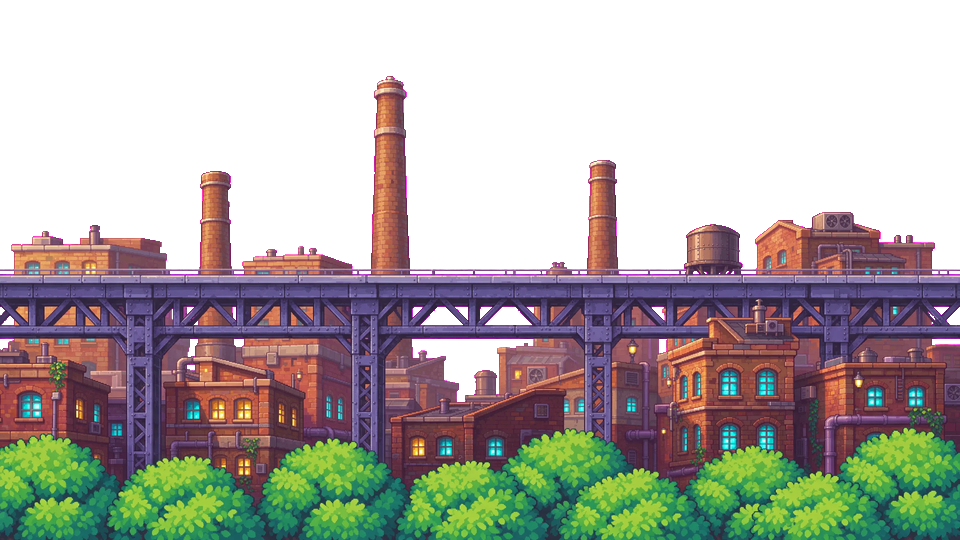
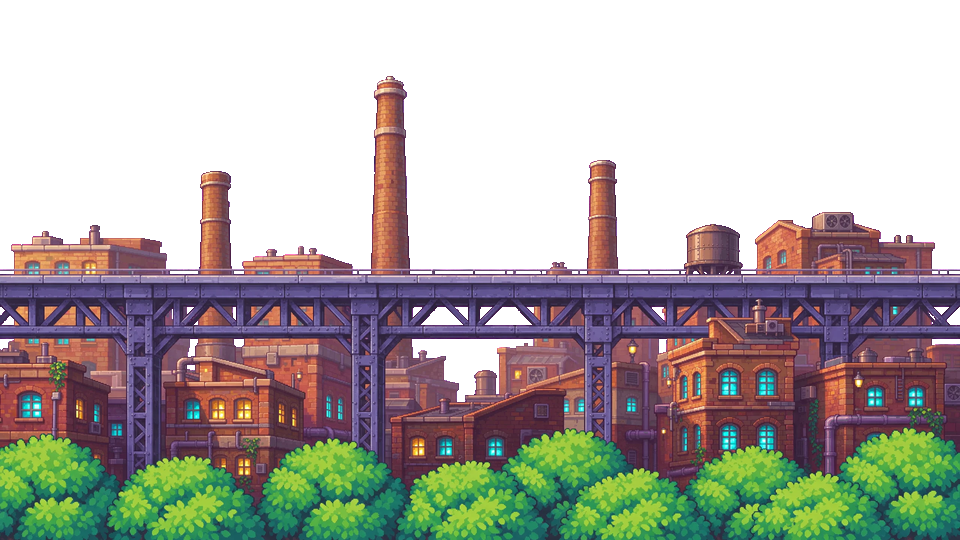
Run trains forwards now and then, sharpen them, and clean the city bridge
The train used to run to the edge of the view and come back reversed. It now
crosses left to right on top of its bridge, the first a few seconds into the
level and the next 22 seconds after the last has gone. The freight train rides
in front of Ship It City's warehouses instead of vanishing behind them.

Train sprites are averaged down, sharpened, held to a small palette and given
a dark violet outline. Application Alley no longer has a train. The magenta
cast is taken out of Ship It City's bridge layer.

Claude-Session: https://claude.ai/code/session_01TySN1cNevy2HFj41ARkqbS

diff --git a/src/assets.js b/src/assets.js
@@ -1,1 +1,1 @@
[2 lines of base64/hex data omitted]

diff --git a/src/renderer.js b/src/renderer.js
@@ -19,7 +19,9 @@
   // Things that cross the sky behind the level. Speeds are pixels a second; `far` is how much of the
   // camera's travel they share, so distant things slide past more slowly than near ones.
   const PLANE = { speed: 46, far: .06, wait: 4, rest: 620, y: 58, rope: 18, font: 'bold 13px monospace', ink: '#3b2148', hem: '#d6453d', cord: '#7a4a2a' };
-  const TRAIN = { speed: 120, rest: 1500 };
+  // A train crosses the view left to right every so often: the first a few seconds into the
+  // level, each later one a while after the last has gone.
+  const TRAIN = { speed: 115, first: 4, every: 22 };
 
   class Renderer {
     constructor(canvas) {
@@ -158,6 +160,7 @@
           if (i === scene.rocket?.behind) this.rocket(scene.rocket, (this.camera - start) * layer.speed);
           if (i === scene.behind) this.traffic(scene);
           this.strip(layers[i], offset, layers[i].width, HGT);
+          if (i === scene.behind && scene.train) this.train(scene);
           if (i === scene.smoke?.layer) this.smoke(scene.smoke, offset, layers[i].width);
           if (layer.haze) { ctx.fillStyle = layer.haze; ctx.fillRect(0, 0, W, HGT); }
         });
@@ -192,7 +195,7 @@
     lap(value, lap) { return ((value % lap) + lap) % lap; }
 
     // What moves behind the level: something that floats (a balloon, an airship), a small flock
-    // (gulls, delivery drones), a train along the world's bridge, and the plane with its banner.
+    // (gulls, delivery drones) and the plane with its banner. The train is drawn with its bridge.
     // A world still on a single plate gets the plane alone.
     traffic(scene) {
       const t = this.levelTime, cam = this.camera;
@@ -209,16 +212,24 @@
         }
       }
       this.plane(root.HIRED_EDITION?.banners?.[this.levelIndex] || 'HIRE ' + String(root.HIRED_EDITION?.applicant || 'ME').split(' ')[0].toUpperCase() + '.');
-      if (scene?.rail) {
-        // The train runs one way, rests out of sight, then comes back the other way.
-        const f = this.frame('kit', scene.train || 'train');
-        if (f) {
-          const lap = W + f.w + TRAIN.rest, run = t * TRAIN.speed, back = Math.floor(run / lap) & 1;
-          const along = this.lap(run, lap) - f.w, slide = this.lap(cam * scene.layers[scene.behind].speed, W + f.w);
-          const x = back ? W - f.w - along : along;
-          draw(scene.train || 'train', this.lap(x - slide + f.w, W + f.w) - f.w, scene.rail - f.h, back);
-        }
-      }
+    }
+
+    // The train runs on top of the world's bridge, in front of what stands on it, so it slides with
+    // that layer as the camera moves and travels at its own speed on top. It always runs the way
+    // its engine faces.
+    train(scene) {
+      const f = this.frame('kit', scene.train), t = this.levelTime;
+      if (!f) return;
+      const slide = this.camera * scene.layers[scene.behind].speed;
+      let run = this.trainRun;
+      if (!run || run.level !== this.levelIndex || t < run.seen) run = this.trainRun = { level: this.levelIndex, start: t + TRAIN.first };
+      run.seen = t;
+      if (t < run.start) return;
+      if (run.from === undefined) run.from = slide - f.w;
+      const x = run.from + (t - run.start) * TRAIN.speed - slide;
+      // Once it is off the far side (or the player has long outrun it), the next one is due.
+      if (x > W || t - run.start > 60) { run.start = t + TRAIN.every; run.from = undefined; return; }
+      if (x + f.w >= 0) this.kit(scene.train, x, scene.rail - f.h);
     }
 
     // Now and then a rocket climbs out from behind the skyline and leaves by the top of the screen.

diff --git a/tools/build-art-kit.py b/tools/build-art-kit.py
@@ -18,7 +18,7 @@ Requires Pillow and NumPy, used for build tooling only.
 from pathlib import Path
 import json
 import numpy as np
-from PIL import Image, ImageDraw
+from PIL import Image, ImageDraw, ImageFilter
 
 ROOT = Path(__file__).resolve().parents[1]
 SRC = ROOT / 'assets/source/kit'
@@ -115,6 +115,29 @@ def sized(im, width=None, height=None):
 def cut(sheet, box, **size):
     """One sprite from a matted sheet: a box in the sheet's pixels, trimmed and scaled."""
     return sized(trim(sheet.crop(box))[0], **size)
+
+
+def crisp(im, height, colours=28, outline=(46, 30, 78)):
+    """A large sprite brought down to game pixels so it stays sharp: averaged rather than
+    resampled, sharpened, held to a small palette and ringed with a dark violet outline, which also
+    hides any trace of the key colour round its edge. It comes out two pixels taller than asked."""
+    im = trim(im)[0]
+    width = max(1, round(im.width * height / im.height))
+    data = np.asarray(im.convert('RGBA')).astype(np.float32)
+    data[..., :3] *= data[..., 3:] / 255
+    small = np.asarray(Image.fromarray(data.clip(0, 255).astype(np.uint8), 'RGBA').resize((width, height), Image.BOX)).astype(np.float32)
+    alpha = small[..., 3:]
+    small[..., :3] = np.where(alpha > 0, small[..., :3] * 255 / np.maximum(alpha, 1), 0)
+    rgb = Image.fromarray(small[..., :3].clip(0, 255).astype(np.uint8), 'RGB')
+    rgb = rgb.filter(ImageFilter.UnsharpMask(radius=1.2, percent=90, threshold=2))
+    rgb = np.asarray(rgb.quantize(colors=colours, method=Image.MEDIANCUT, dither=Image.NONE).convert('RGB'))
+    out = np.zeros((height + 2, width + 2, 4), np.uint8)
+    out[1:-1, 1:-1, :3] = rgb
+    out[1:-1, 1:-1, 3] = (small[..., 3] > 128) * 255
+    solid = out[..., 3] > 0
+    ring = ~solid & (np.roll(solid, 1, 0) | np.roll(solid, -1, 0) | np.roll(solid, 1, 1) | np.roll(solid, -1, 1))
+    out[ring] = (*outline, 255)
+    return Image.fromarray(out, 'RGBA')
 
 
 def banded(im, cuts, heights, width):
@@ -378,7 +401,6 @@ def alley_traffic():
     frames = {
         'plane': plane,
         'banner': banner,
-        'train': cut(sheet, (300, 600, 2310, 846), height=36),
         'gull_0': gull,
         'gull_1': glide,
         'balloon': sized(trim(basket)[0], width=40),
@@ -530,7 +552,7 @@ def alley_layers():
         'far': (layer(far, 0.375, -125, haze=(176, 196, 240), haze_from=(255, 345)), {'speed': 0.07}),
         'near': (layer(near, 0.3, 134), {'speed': 0.18}),
         'trees': (layer(trees, 0.36, 367), {'speed': 0.3}),
-    }, {'behind': 2, 'rail': 308, 'float': {'sprite': 'balloon', 'at': [260, 104]},
+    }, {'behind': 2, 'float': {'sprite': 'balloon', 'at': [260, 104]},
         'flock': {'sprite': 'gull', 'count': 3, 'y': 150, 'beat': 4}})
 
 
@@ -553,6 +575,18 @@ def shaved(im, tinted, depth=8):
     return Image.fromarray(data, 'RGBA')
 
 
+def unpinked(im, lead=45):
+    """The magenta ground's cast taken out of a cut-out: wherever red and blue both stand well clear
+    of green (nothing painted in Ship It City is that colour), they are brought down to it."""
+    data = np.asarray(im).astype(np.int32)
+    r, g, b = data[..., 0], data[..., 1], data[..., 2]
+    pink = (data[..., 3] > 0) & (r > g + lead) & (b > g + lead)
+    level = g + lead // 2
+    data[..., 0] = np.where(pink, np.minimum(r, level), r)
+    data[..., 2] = np.where(pink, np.minimum(b, level + 10), b)
+    return Image.fromarray(data.astype(np.uint8), 'RGBA')
+
+
 def city_layers():
     """Ship It City's skyline, and its bridge, factories and trees, are each one painted picture
     on a flat ground. The front bank of trees is lifted out of the second to slide by itself."""
@@ -560,7 +594,7 @@ def city_layers():
     sky = unmarked(Image.open(SRC / 'city-sky.png'), also=[(2290, 270, 2560, 470)]).convert('RGB').resize(SCREEN, Image.LANCZOS)
     far = matte(Image.open(SRC / 'city-far-2.png'), keep_marks=True)
     whole = Image.open(SRC / 'city-near-2.png')
-    near = matte(whole, keep_marks=True)
+    near = unpinked(matte(whole, keep_marks=True))
     # Leaves are greener than they are red and blue, or dark and teal in their shade; the lit
     # windows behind them are bright and as blue as they are green.
     trees = front_bank(whole, CITY_ART['trees'], lambda r, g, b: (g > r + 20) & ((g > b + 15) | ((g < 130) & (g > b - 12))), rim=36)
@@ -589,7 +623,7 @@ def city_traffic():
         'drone_0': cut(sheet, (1256, 208, 1724, 584), width=30),
         'drone_1': cut(sheet, (1868, 192, 2272, 568), width=30),
         # A faint line is drawn under the wheels: the train stops just above it.
-        'freight': cut(sheet, (284, 744, 2284, 1040), height=34),
+        'freight': crisp(sheet.crop((284, 744, 2284, 1040)), 40),
         'puff_0': cut(sheet, (308, 1204, 472, 1340), width=11),
         'puff_1': cut(sheet, (500, 1164, 704, 1340), width=15),
         'puff_2': cut(sheet, (732, 1104, 1004, 1336), width=20),
@@ -646,7 +680,7 @@ def growth_traffic():
         'courier_0': cut(sheet, (1128, 200, 1764, 504), width=32),
         'courier_1': cut(sheet, (1848, 204, 2456, 504), width=32),
         'rocket': cut(sheet, (84, 668, 456, 1380), width=20),
-        'maglev': sized(long, height=40),
+        'maglev': crisp(long, 42),
     }
     return frames, {}
 

diff --git a/docs/ART-BIBLE.md b/docs/ART-BIBLE.md
@@ -74,7 +74,7 @@ The delivered environment kit uses 96 × 96 terrain textures and 192 × 192 prop
 | Growth Run | Fast, open, connected city | Violet and magenta twilight | Lit platforms and speed lanes | Rail lines, layered towers and cyan/violet signals |
 | Final Interview HQ | Clearer, calmer destination | Calm sunrise | Polished stone, glass and gold trim | HQ silhouette, glass, elevated gardens and spacious sky |
 
-Each world suggests distant atmosphere, a middle city and local decoration. Application Alley, Ship It City and Growth Run are each painted in four layers that slide at their own speeds: sky (0.02 of camera speed, with clouds that drift by themselves), far skyline (0.07), a bridge with what stands under it (0.18) and a nearer bank of treetops (0.3). Behind the bridge a train runs along its deck, something floats across the sky with a small flock beside it, and a plane tows a cloth banner whose line comes from `banners` in `src/edition.js`. Application Alley has a viaduct, a commuter train, a balloon and gulls. Ship It City has a steel girder bridge, a freight train, an airship, two delivery drones and chimneys that smoke. Growth Run has a monorail track, a bullet train, an airship carrying a chart, two couriers and a rocket that climbs out of the skyline now and then. Final Interview HQ is still one painted plate, drifting at 0.12 of camera speed, and gets the plane alone. Foreground props, platforms, actors and ambient particles are separate. Keep playable surfaces in the clearest foreground plane; painted architecture does not define collision geometry.
+Each world suggests distant atmosphere, a middle city and local decoration. Application Alley, Ship It City and Growth Run are each painted in four layers that slide at their own speeds: sky (0.02 of camera speed, with clouds that drift by themselves), far skyline (0.07), a bridge with what stands under it (0.18) and a nearer bank of treetops (0.3). Something floats across the sky with a small flock beside it, and a plane tows a cloth banner whose line comes from `banners` in `src/edition.js`. In Ship It City and Growth Run a train runs along the top of the bridge, in front of what stands on it: always forwards, left to right, the first a few seconds into the level and the next 22 seconds after the last has gone. Train sprites are averaged down, sharpened, held to a small palette and outlined in dark violet so they stay crisp at game size. Application Alley has a viaduct, a balloon and gulls, and no train. Ship It City has a steel girder bridge, a freight train, an airship, two delivery drones and chimneys that smoke. Growth Run has a monorail track, a bullet train, an airship carrying a chart, two couriers and a rocket that climbs out of the skyline now and then. Final Interview HQ is still one painted plate, drifting at 0.12 of camera speed, and gets the plane alone. Foreground props, platforms, actors and ambient particles are separate. Keep playable surfaces in the clearest foreground plane; painted architecture does not define collision geometry.
 
 The three upper floors of Final Interview HQ are rooms, and a room's backdrop is its back wall only: a flat elevation with windows, lamps and panelling, fixed to the floor. Furniture is never painted into a wall. It is cut from separate sheets into the furniture atlas and placed in the level, so anything that looks like a desk is a desk the hero can reach.
 

diff --git a/assets/source/kit/README.md b/assets/source/kit/README.md
@@ -11,7 +11,7 @@ cuts away or paints out. The three from CapCut, whose names end in `-2`, have no
 | `alley-sky.png` | Application Alley's sky | none: a full picture |
 | `alley-far.png` | Its far skyline | green |
 | `alley-near.png` | Its viaduct and treetops | red, since the trees are green and pink |
-| `alley-movers.png` | Plane, blank banner, train, two gulls, balloon | green |
+| `alley-movers.png` | Plane, blank banner, train (no longer used: Application Alley has no train), two gulls, balloon | green |
 | `signs.png` | Four blank signs, one for each world | green |
 | `machinery-a.png` | Press head and rod, spring up and down, conveyor, speed strip, two orbs | green |
 | `machinery-b.png` | Gate pillar, blank tag, bell, padlock, warning sign | green |
